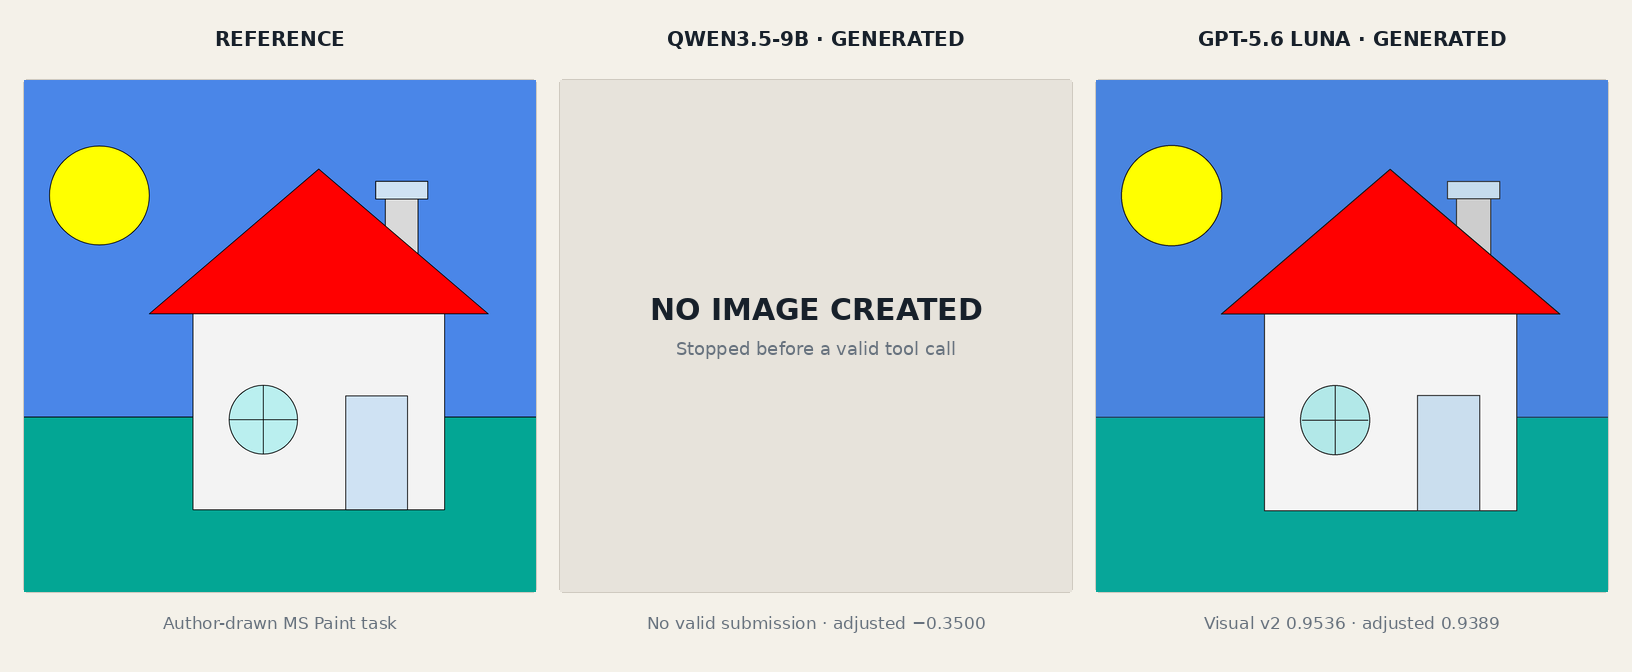
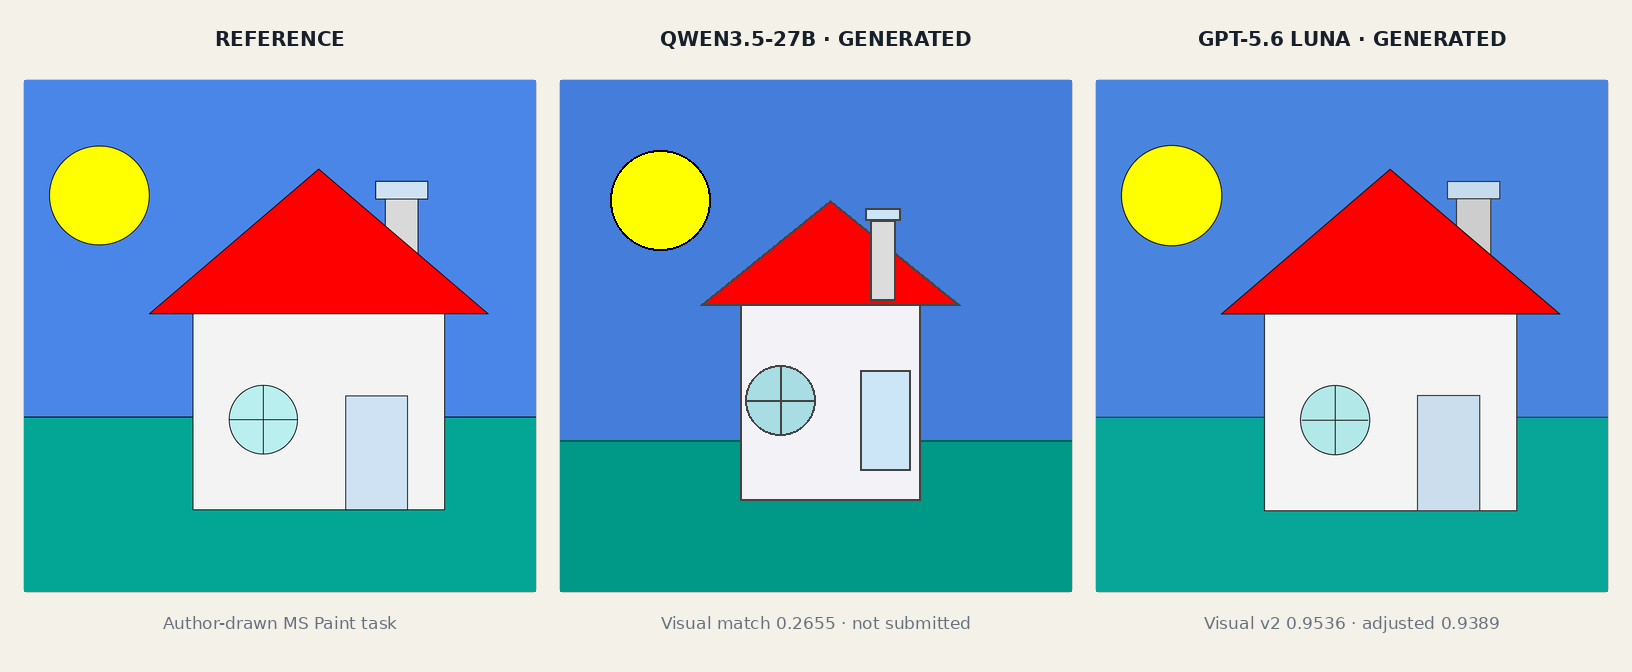
Show Qwen3.5-27B visual comparison

Changed region(s): [[0.3438, 0.0312, 0.6562, 0.9375]]

diff --git a/scripts/build_readme_comparison.py b/scripts/build_readme_comparison.py
@@ -42,11 +42,11 @@ def build(reference: Path, luna: Path, output: Path, qwen: Path | None = None) -
     border = "#cfcac0"
     canvas = Image.new("RGB", CANVAS, background)
     draw = ImageDraw.Draw(canvas)
-    headings = ("REFERENCE", "QWEN3.5-9B · GENERATED", "GPT-5.6 LUNA · GENERATED")
+    headings = ("REFERENCE", "QWEN3.5-27B · GENERATED", "GPT-5.6 LUNA · GENERATED")
     panels = (_load_panel(reference), _load_panel(qwen) if qwen else None, _load_panel(luna))
     footers = (
         "Author-drawn MS Paint task",
-        "No valid submission · adjusted −0.3500",
+        "Visual match 0.2655 · not submitted",
         "Visual v2 0.9536 · adjusted 0.9389",
     )
 

diff --git a/README.md b/README.md
@@ -4,9 +4,9 @@
 
 MimesisGym is a benchmark for multimodal agents that reconstruct visual references with code. The model sees an image, works inside an isolated sandbox, and submits its own rendering. The result is measured against the original for literal spatial accuracy.
 
-![A house reference beside the results from Qwen3.5-9B and GPT-5.6 Luna](docs/assets/house-model-comparison.png)
+![A house reference beside the results from Qwen3.5-27B and GPT-5.6 Luna](docs/assets/house-model-comparison.png)
 
-<p align="center"><sub>Same 512×512 MS Paint reference, fresh contexts, identical limits. Qwen3.5-9B stopped before producing a valid tool call; GPT-5.6 Luna submitted in four turns and scored 0.9536. Runs were executed through Featherless and OpenAI respectively.</sub></p>
+<p align="center"><sub>Same 512×512 MS Paint reference, fresh contexts, identical limits. Qwen3.5-27B created the shown workspace image but did not submit it; its visual match is 0.2655. GPT-5.6 Luna submitted in four turns and scored 0.9536. Runs used Featherless and OpenAI respectively.</sub></p>
 
 Recognizing “a house” is easy. Reconstructing the exact roof angle, window position, background boundary, colors, and layer order is not. MimesisGym makes that gap visible—and measurable.
 

diff --git a/docs/assets/README.md b/docs/assets/README.md
@@ -2,7 +2,7 @@
 
 `house-model-comparison.png` was generated by `scripts/build_readme_comparison.py` from an author-drawn MS Paint reference and fresh MimesisGym evaluation results recorded on 2026-08-28.
 
-- Qwen/Qwen3.5-9B ran through Featherless with thinking disabled. It returned no valid tool call and created no image.
+- Qwen/Qwen3.5-27B ran through Featherless with its native thinking template. It created the displayed 512×512 workspace image in one valid tool call, then stopped without calling `submit_image`. Its post-hoc visual v2 match is 0.2655474823; its official episode is a non-submission with adjusted reward -0.26612.
 - GPT-5.6 Luna ran through OpenAI Responses with medium reasoning. It submitted in four turns with visual v2 reward 0.9535915985 and adjusted reward 0.9389115985.
 - Both episodes used independent contexts, offline containers, and the same default limits.
 
